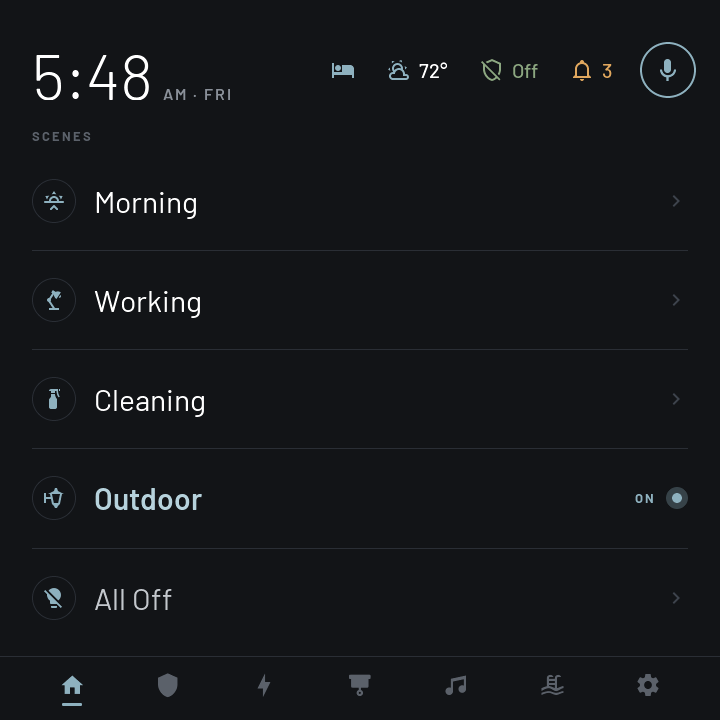
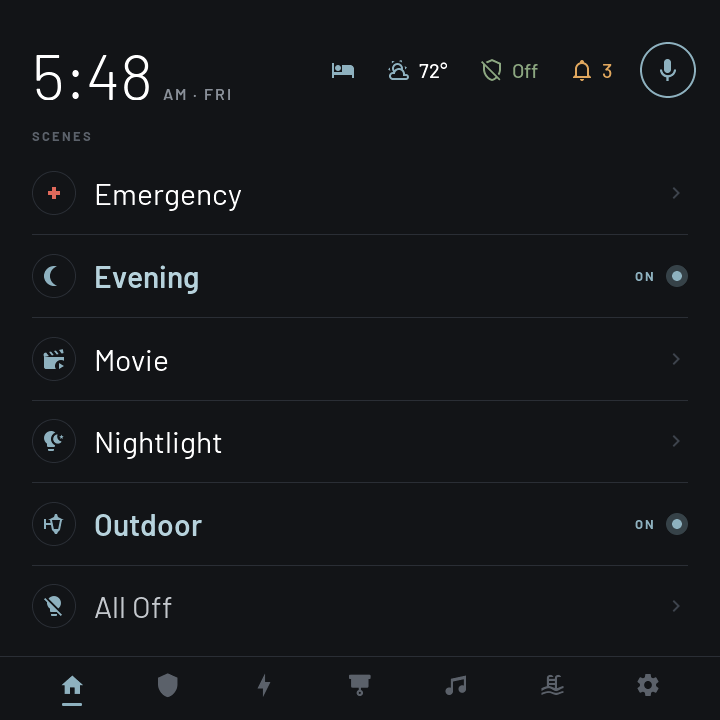
Scenes: label scene.basement_evening as "Evening"
Claude-Session: https://claude.ai/code/session_019FdN7WrQxwL4NkvPtacvRy

diff --git a/esphome/basement-wall-panel/README.md b/esphome/basement-wall-panel/README.md
@@ -215,8 +215,8 @@ built-in ESPHome model, so no init sequence or timing is needed.
   design tokens; every icon is the MDI glyph named in the spec.
 * Scene rows per period follow the prototype (Morning: Morning · Working ·
   Cleaning · Outdoor · All Off; Day: same with the sunny icon; Evening: Welcome ·
-  Basement Evening · Entertaining · Movie · Outdoor · All Off; Night: Emergency ·
-  Basement Evening · Movie · Nightlight · Outdoor · All Off). The period is
+  Evening (scene.basement_evening) · Entertaining · Movie · Outdoor · All Off; Night: Emergency ·
+  Evening · Movie · Nightlight · Outdoor · All Off). The period is
   picked with the repo's time and sun-elevation rules (night 22:00–05:00,
   morning until noon, evening once the sun is below 15° or after 17:00).
 * Two things LVGL can't do exactly as the prototype: letter-spacing tighter
